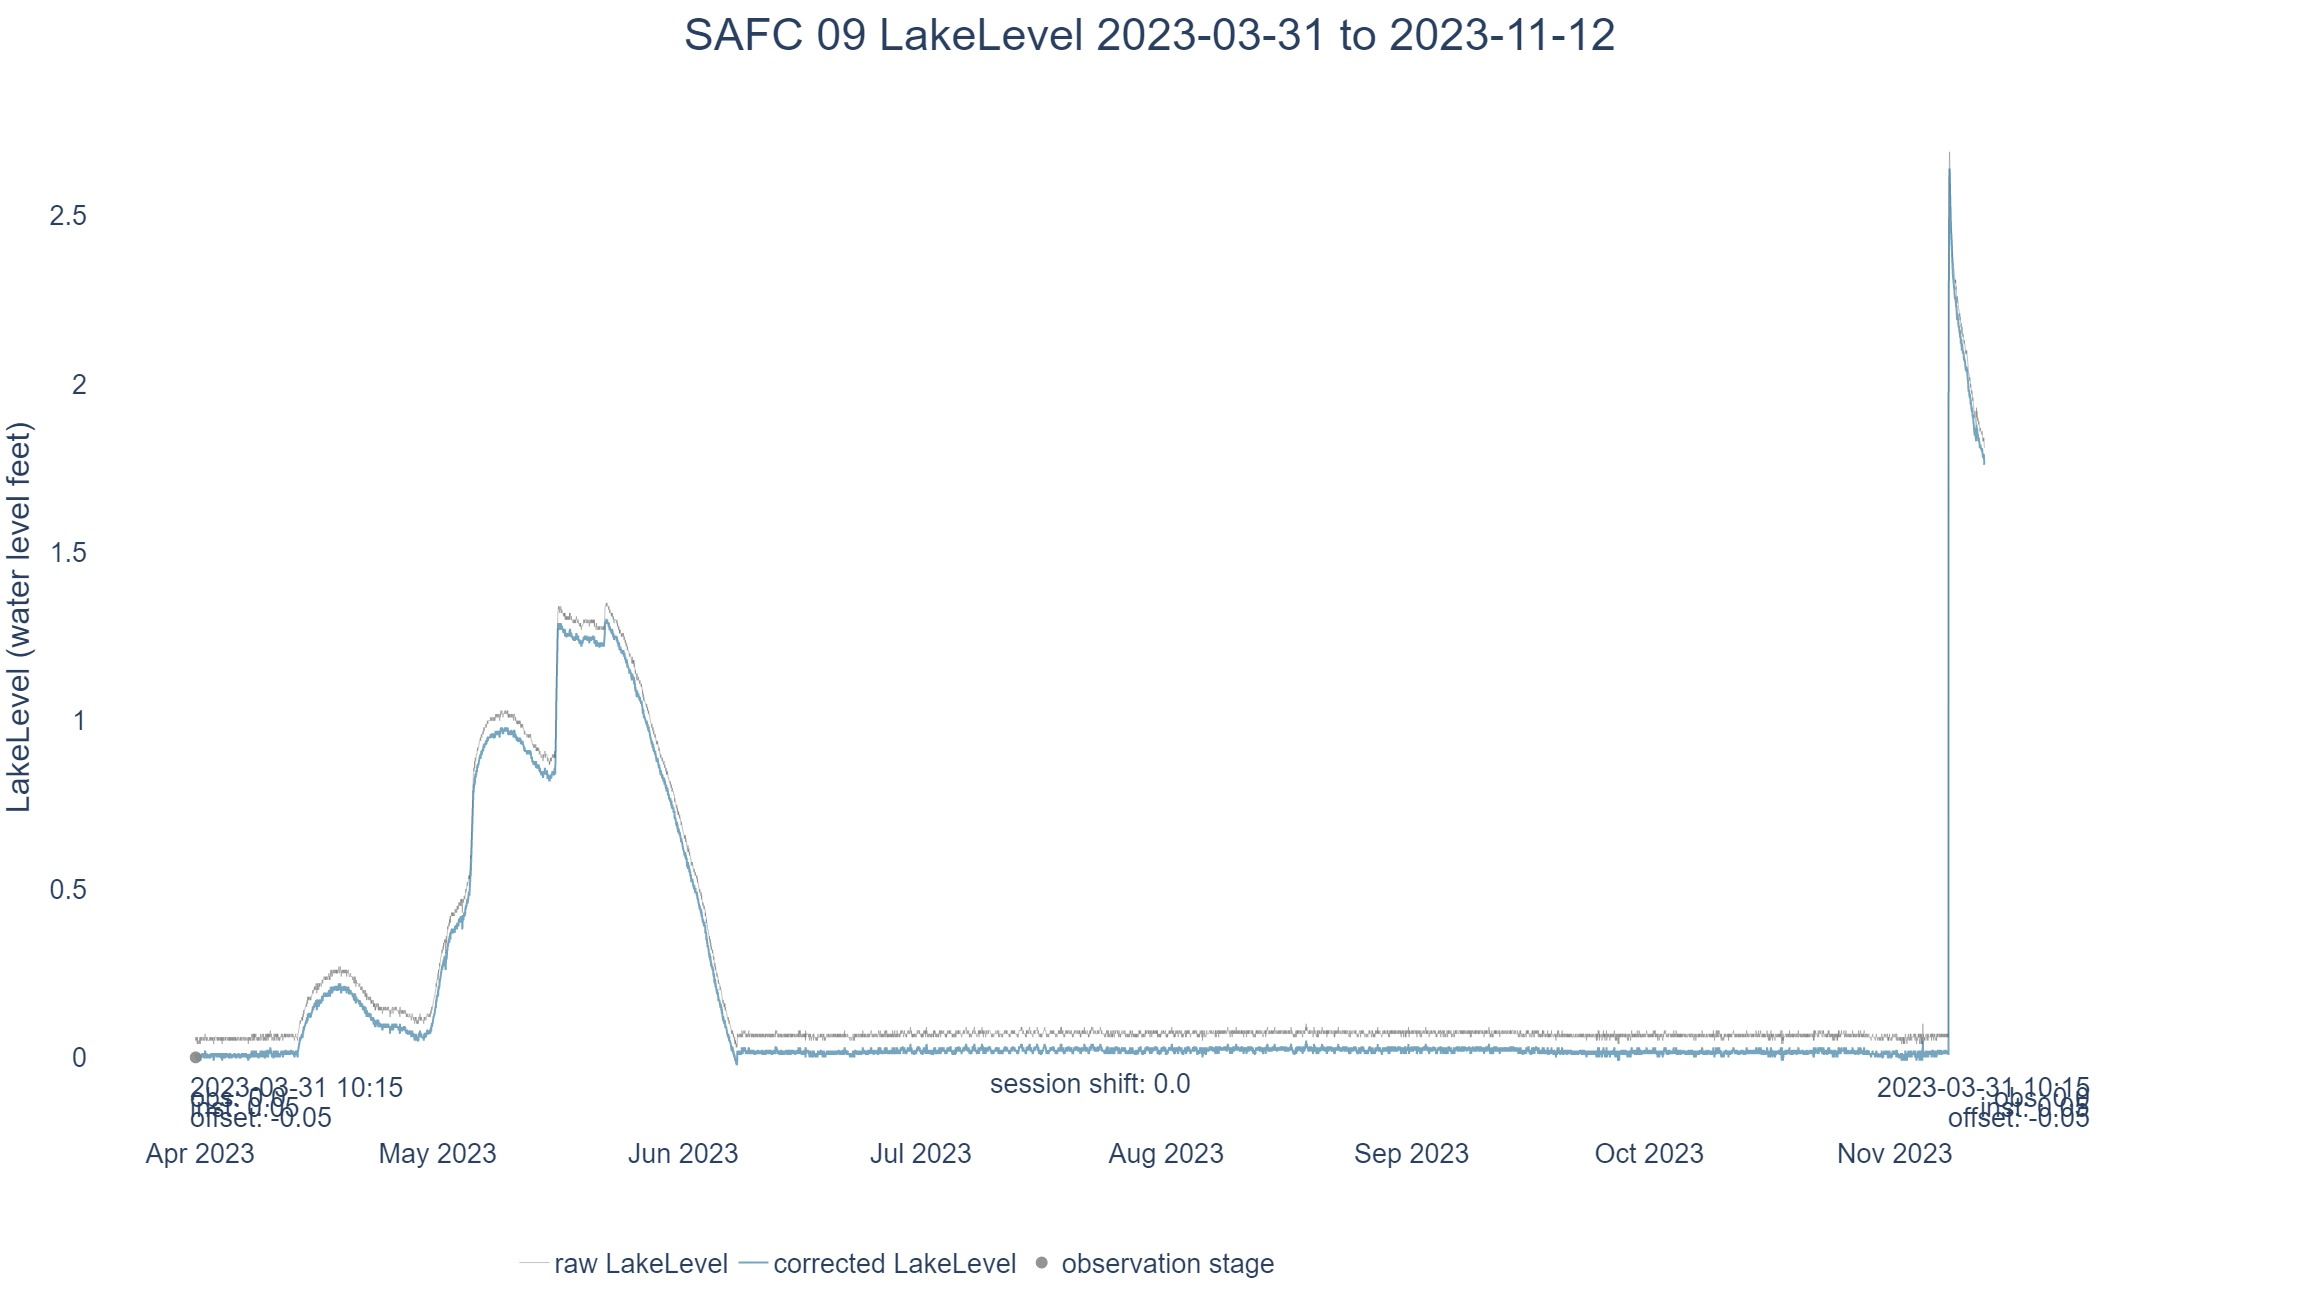
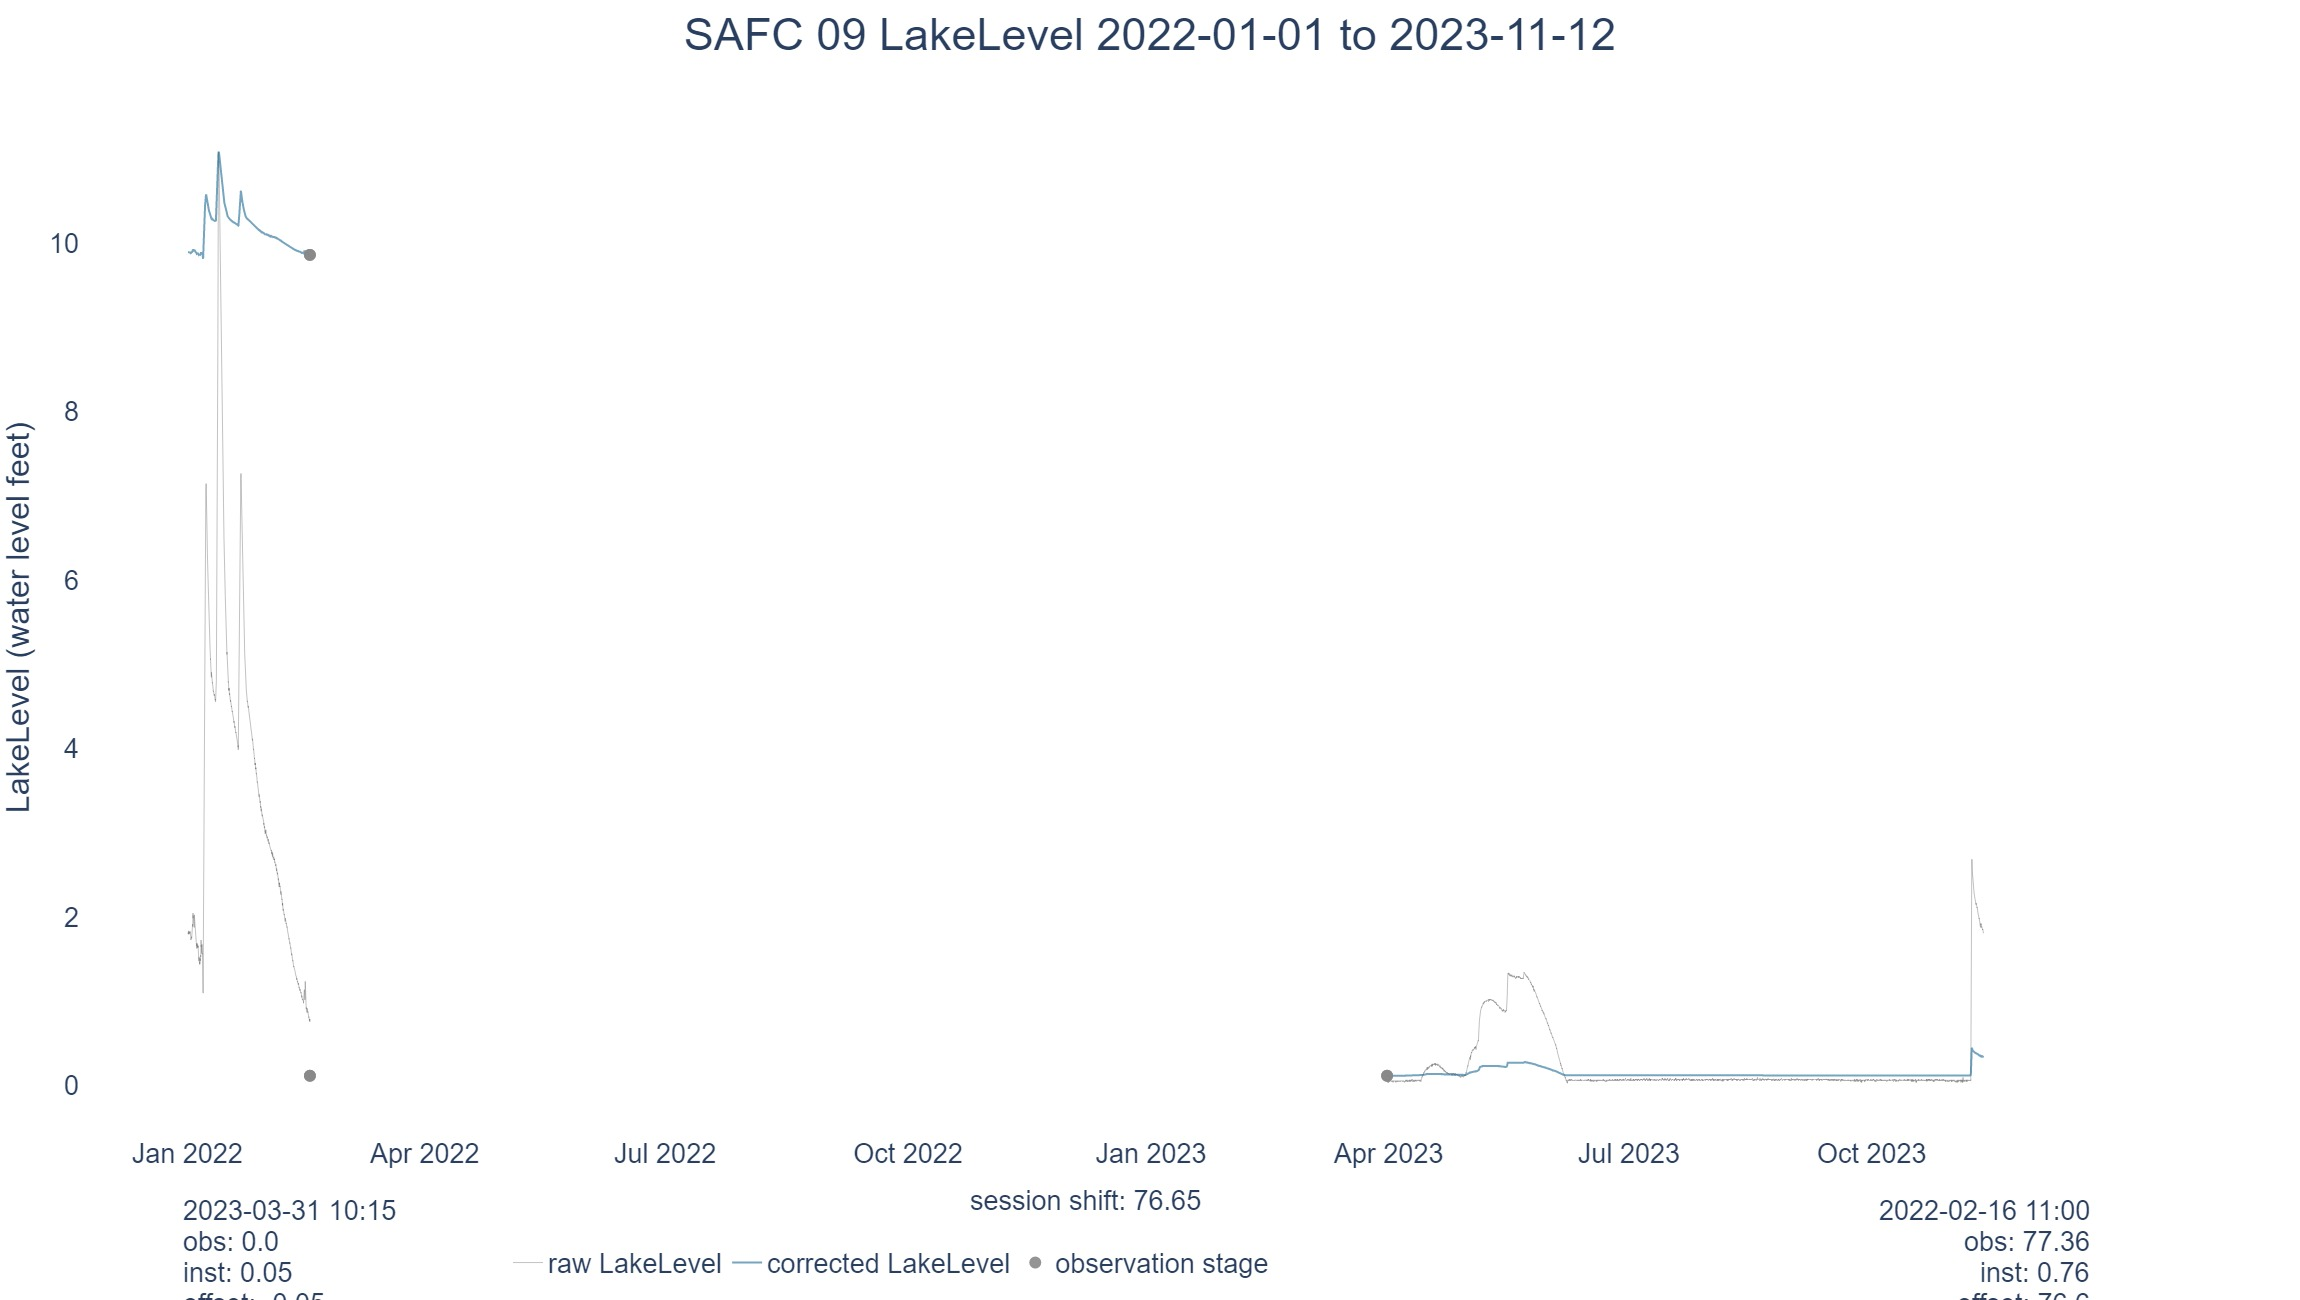
updated graph allignmnment

diff --git a/graph_2.py b/graph_2.py
@@ -118,7 +118,7 @@ def parameter_graph(df, site_code, site_name, parameter, comparison_site, compar
     elif observation_axis == "primary":
         observation_axis = False
     elif observation_axis == "secondary":
-        derived_data_axis = True
+        observation_axis = True
 
     elif comparison_axis == "primary":
         comparison_axis = False
@@ -247,48 +247,49 @@ def parameter_graph(df, site_code, site_name, parameter, comparison_site, compar
     def annotations(obs):
             row_count = 1
             annotation_x = 0.05 # allows offset for when year is displatyed on axis
-            annotation_y = -.09
+            annotation_y = -.07
+            
               # annotation 
             obs_df = df.dropna(subset=[f"{obs}"]).copy() # this solves the Try using .loc[row_indexer,col_indexer] = value instead as obs_df is a slice
             if 'offset' not in obs_df:
                  obs_df[f'offset'] = obs_df[f'observation_stage']-obs_df[f'data']
-                 
+            
             if obs_df.shape[0] > 0:
                 # first observation
                 fig.add_annotation(text=f"{obs_df['datetime'].iloc[0].strftime('%Y-%m-%d %H:%M')}",
                         xref="x domain", yref="y domain",
-                        x=annotation_x, y=annotation_y, showarrow=False, row=row_count, col=1, secondary_y=observation_axis,)
+                        x=annotation_x, y=annotation_y, showarrow=False, row=row_count, col=1, secondary_y=False,)
                 fig.add_annotation(text=f"obs: {obs_df[f'{obs}'].iloc[0]}",
                         xref="x domain", yref="y domain",
-                        x=annotation_x, y=annotation_y-.03, showarrow=False, row=row_count, col=1, secondary_y=observation_axis,)
+                        x=annotation_x, y=annotation_y-.025, showarrow=False, row=row_count, col=1, secondary_y=False,)
                 fig.add_annotation(text=f"inst: {round(obs_df[f'data'].iloc[0], 2)}",
                         xref="x domain", yref="y domain",
-                        x=annotation_x, y=annotation_y-.06, showarrow=False, row=row_count, col=1, secondary_y=observation_axis,)
+                        x=annotation_x, y=annotation_y-.05, showarrow=False, row=row_count, col=1, secondary_y=False,)
               
                 fig.add_annotation(text=f"offset: {round(obs_df[f'offset'].iloc[0], 2)}",
                         xref="x domain", yref="y domain",
-                        x=annotation_x, y=annotation_y-.09, showarrow=False, row=row_count, col=1, secondary_y=observation_axis,)
+                        x=annotation_x, y=annotation_y-.075, showarrow=False, row=row_count, col=1, secondary_y=False,)
                 # last observation
                 
                 fig.add_annotation(text=f"{obs_df['datetime'].iloc[-1].strftime('%Y-%m-%d %H:%M')}",
                         xref="x domain", yref="y domain",
-                        x=annotation_x+.95, y=annotation_y, showarrow=False, row=row_count, col=1, secondary_y=observation_axis,)
+                        x=annotation_x+.95, y=annotation_y, showarrow=False, row=row_count, col=1, secondary_y=False,)
                 fig.add_annotation(text=f"obs: {obs_df[f'{obs}'].iloc[-1]}",
                         xref="x domain", yref="y domain",
-                        x=annotation_x+.95, y=annotation_y-.03, showarrow=False, row=row_count, col=1, secondary_y=observation_axis,)
+                        x=annotation_x+.95, y=annotation_y-.025, showarrow=False, row=row_count, col=1, secondary_y=False,)
                 fig.add_annotation(text=f"inst: {round(obs_df[f'data'].iloc[-1], 2)}",
                         xref="x domain", yref="y domain",
-                        x=annotation_x+.95, y=annotation_y-.06, showarrow=False, row=row_count, col=1, secondary_y=observation_axis,)
+                        x=annotation_x+.95, y=annotation_y-.05, showarrow=False, row=row_count, col=1, secondary_y=False,)
                 
                 fig.add_annotation(text=f"offset: {round(obs_df[f'offset'].iloc[-1], 2)}",
                         xref="x domain", yref="y domain",
-                        x=annotation_x+.95, y=annotation_y-.09, showarrow=False, row=row_count, col=1, secondary_y=observation_axis,)
+                        x=annotation_x+.95, y=annotation_y-.075, showarrow=False, row=row_count, col=1, secondary_y=False,)
                     
                     # shift
                 #if observation_axis != "none":
                 fig.add_annotation(text=f"session shift: {round((obs_df[f'offset'].iloc[-1] - obs_df[f'offset'].iloc[0]),2)}",
                             xref="x domain", yref="y domain",
-                            x=.5, y=legend_y+.02, showarrow=False, row=row_count, col=1, secondary_y=observation_axis,)
+                            x=.5, y=legend_y+.02, showarrow=False, row=row_count, col=1, secondary_y=False,)
         
     if "field_observations" in df.columns or "observations" in df.columns or "observation" in df.columns or "observation_stage" in df.columns and observation_axis != "none":
             if "field_observations" in df.columns:
@@ -305,7 +306,7 @@ def parameter_graph(df, site_code, site_name, parameter, comparison_site, compar
             mode='markers',
             marker=dict(
                 color=color_map.get(f"field_observation", 'black'), size=12, opacity=.9),
-            text='', name=f"{obs.replace('_', ' ')}", showlegend=True), row=row_count, col=1, secondary_y=secondary,)
+            text='', name=f"{obs.replace('_', ' ')}", showlegend=True), row=row_count, col=1, secondary_y=False,)
             annotations(obs)
     row_count = row_count+1
     
